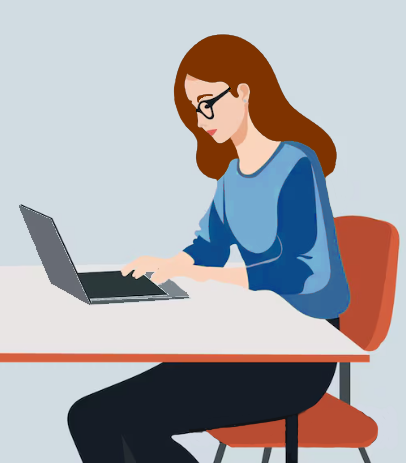
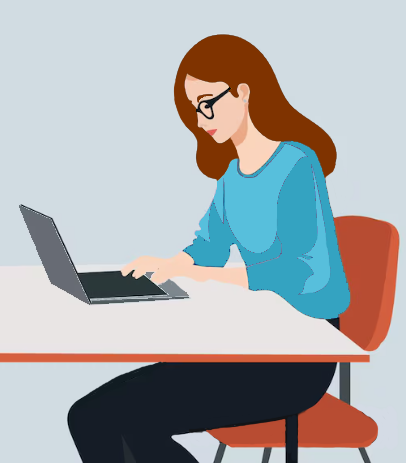
added photo and edited colors light-dark

Changed region(s): [[0.4433, 0.3024, 0.8867, 0.6955], [0.2365, 0.7862, 0.3842, 0.8467], [0.2069, 0.8467, 0.2365, 0.8769]]

diff --git a/src/components/Navbar.jsx b/src/components/Navbar.jsx
@@ -37,9 +37,7 @@ export default function Navbar({ darkMode, handleThemeToggle }) {
       sx={{
         top: 0,
         backdropFilter: "blur(10px)",
-        backgroundColor: scrolled
-          ? "rgba(6, 111, 149, 0.58)" // darker if scrolled
-          : "rgba(11, 141, 188, 0.66)", // lighter
+        backgroundColor: scrolled ? "primary.transparent" : "primary.main",
         transition: "background-color 0.3s ease, box-shadow 0.3s ease",
         boxShadow: scrolled ? "0 2px 10px rgba(0, 0, 0, 0.7)" : "none",
         zIndex: 1100,
@@ -83,11 +81,17 @@ export default function Navbar({ darkMode, handleThemeToggle }) {
           checked={darkMode}
           onChange={handleThemeToggle}
           sx={{
+            "& .MuiSwitch-switchBase.Mui-checked": {
+              color: "#fff",
+              "& + .MuiSwitch-track": {
+                backgroundColor: "#000",
+              },
+            },
             "& .MuiSwitch-thumb": {
               backgroundColor: "#ffffff",
             },
             "& .MuiSwitch-track": {
-              backgroundColor: "#ffffff",
+              backgroundColor: "#ccc", // when unchecked
             },
           }}
         />

diff --git a/src/pages/Home.jsx b/src/pages/Home.jsx
@@ -34,11 +34,11 @@ export default function Home() {
       >
         <Grid item xs={12} sm={6} md={6} lg={6} >
           <img
-            src="/aa4.png"
+            src="/111.jpg"
             alt="avatar developer"
             style={{
               width: "100%",
-              maxWidth: "200px",
+              maxWidth: "600px",
               borderRadius: "8px",
               display: "inline-block",
               margin: "0 auto",
@@ -61,8 +61,8 @@ export default function Home() {
           </Typography>
           <Typography sx={{ marginBottom: 1 }}>
             I enjoy working with modern libraries like React Router and Redux,
-            as well as frameworks like Express.js, and tools such as Git,
-            GitHub, Sass/SCSS, Material-UI (MUI), Webpack, Vite and Jira.
+            as well as frameworks like Bootstrap, Express.js, and tools such as Git,
+            GitHub, SCSS, Material-UI (MUI), Webpack, Vite and Jira.
           </Typography>
           <Typography sx={{ marginBottom: 1 }}>
             I believe in following best practices, such as writing modular and

diff --git a/src/theme.js b/src/theme.js
@@ -4,7 +4,11 @@ export const lightTheme = createTheme({
   palette: {
     mode: "light",
     primary: {
-      main: "rgba(11, 141, 188, 0.66)",
+      main: "rgba(1, 130, 194, 0.66)",
+      // main: "rgba(1, 148, 185, 0.66)",
+      // main: "rgba(3, 76, 160, 0.88)",
+      // main: "rgba(0, 124, 185)",
+      transparent: "rgba(6, 153, 206, 0.75)",
     },
     background: {
       default: "#ffffff",
@@ -23,7 +27,9 @@ export const darkTheme = createTheme({
   palette: {
     mode: "dark",
     primary: {
-      main: "rgba(11, 141, 188, 0.66)",
+      // main: "rgba(11, 141, 188, 0.66)",
+      main: "rgba(3, 76, 160, 0.88)",
+      transparent: "rgba(3, 76, 160, 0.75)",
     },
     background: {
       default: "#121212",
